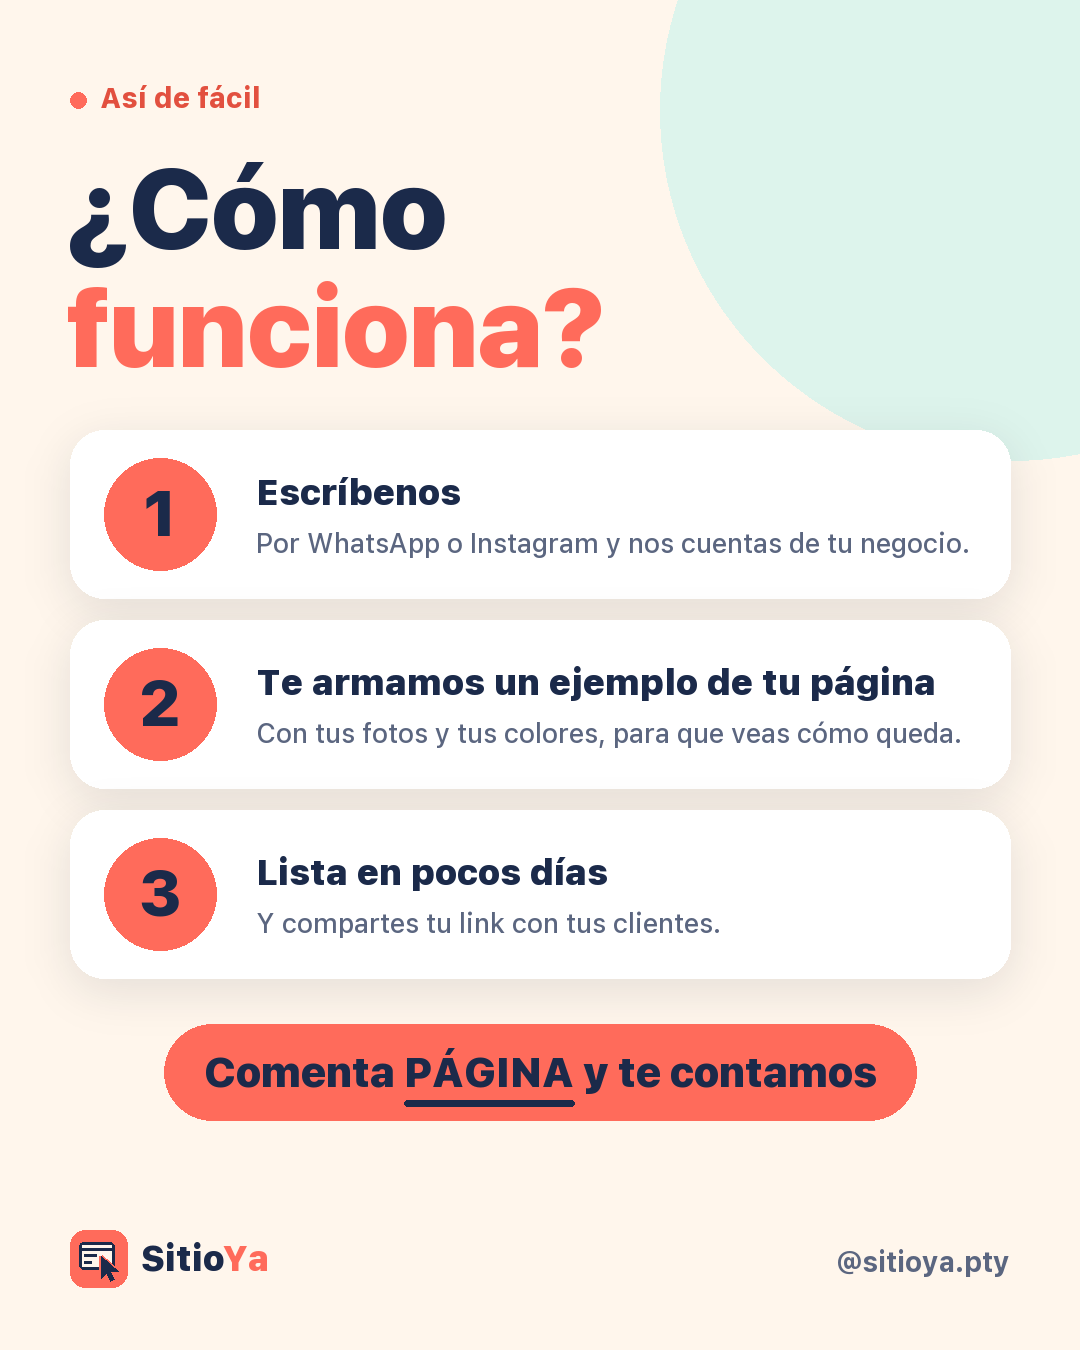
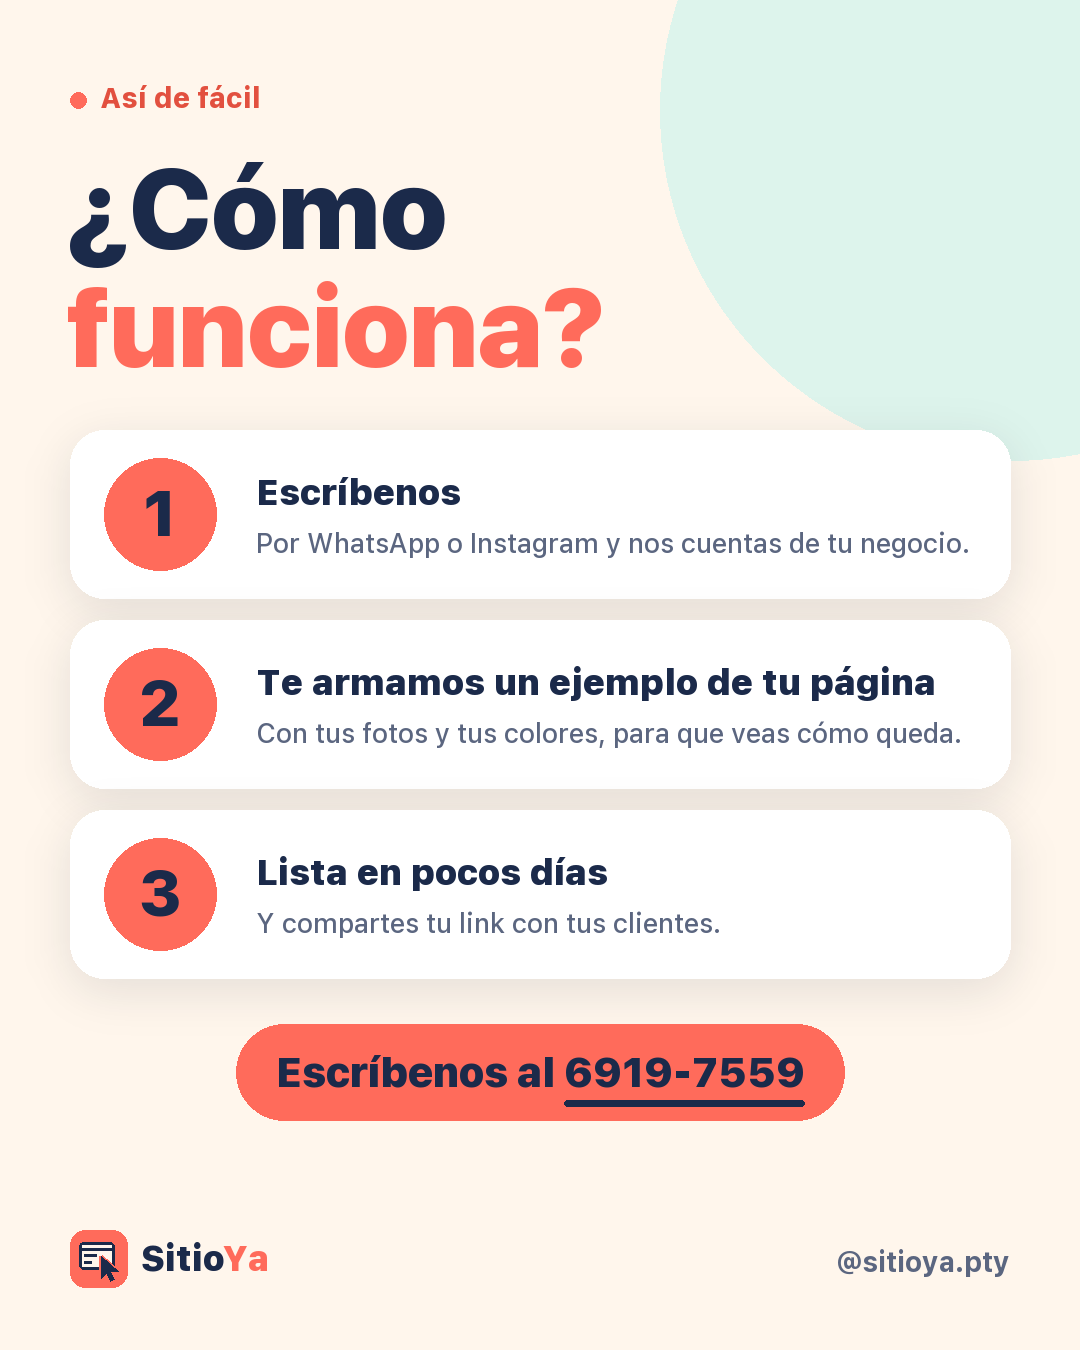
[Claude] WIP: avance del agente en posts de SitioYa (barbería, portada mitos, botones)
Claude-Session: https://claude.ai/code/session_01HjM58LyjDP46JMonKLDErg

Changed region(s): [[0.1528, 0.7467, 0.8556, 0.84]]

diff --git a/redes/posts/index.html b/redes/posts/index.html
@@ -1,6 +1,6 @@
 <!doctype html><html lang="es"><head><meta charset="utf-8"><meta name="viewport" content="width=device-width,initial-scale=1"><meta name="robots" content="noindex"><title>Posts de @sitioya.pty</title><link rel="icon" href="/favicon.svg">
 <style>body{margin:0;font-family:system-ui,-apple-system,sans-serif;background:#FFF6EC;color:#1B2A4A}main{max-width:1100px;margin:0 auto;padding:32px 20px}h1{margin:0 0 6px}.s{color:#5B6680;margin:0 0 28px}.g{display:grid;grid-template-columns:repeat(auto-fill,minmax(min(100%,300px),1fr));gap:24px}figure{margin:0;background:#fff;border-radius:22px;overflow:hidden;box-shadow:0 10px 30px rgba(27,42,74,.08)}img{width:100%;display:block}figcaption{padding:16px 18px 20px}figcaption p{color:#5B6680;margin:8px 0 14px;line-height:1.4}.b{display:inline-block;background:#FF6B5B;color:#1B2A4A;font-weight:800;padding:10px 18px;border-radius:99px;text-decoration:none;margin:0 6px 6px 0}</style></head>
-<body><main><h1>Posts de @sitioya.pty</h1><p class="s">Los 13 en el orden para publicar (del 1 al 13). El último en salir queda arriba en el perfil. El 4 es un carrusel de 4 slides. Al final, la story de la encuesta (1080x1920).</p><div class="g">
+<body><main><h1>Posts de @sitioya.pty</h1><p class="s">Los 12 en el orden para publicar (del 1 al 12). El último en salir queda arriba en el perfil. El 4 es un carrusel de 4 slides. Al final, la story de la encuesta (1080x1920).</p><div class="g">
 <figure><a href="1-tu-negocio-en-internet.png" download><img src="1-tu-negocio-en-internet.png" alt="Tu negocio en internet, ya" loading="lazy"></a><figcaption><b>1. Tu negocio en internet, ya</b><p>Tu negocio en internet, ya. Hacemos páginas web para negocios en Panamá, listas en pocos días. ¿Tu negocio ya tiene página? Sí o no, te leemos en los comentarios</p><a class="b" href="1-tu-negocio-en-internet.png" download>Descargar</a></figcaption></figure>
 <figure><a href="2-como-funciona.png" download><img src="2-como-funciona.png" alt="¿Cómo funciona?" loading="lazy"></a><figcaption><b>2. ¿Cómo funciona?</b><p>¿Cómo funciona? 1. Escríbenos 2. Te armamos un ejemplo de tu página 3. Lista en pocos días y compartes tu link. Escríbenos por WhatsApp al 6919-7559 y empezamos</p><a class="b" href="2-como-funciona.png" download>Descargar</a></figcaption></figure>
 <figure><a href="3-paginas-de-ejemplo.png" download><img src="3-paginas-de-ejemplo.png" alt="4 páginas de ejemplo" loading="lazy"></a><figcaption><b>3. 4 páginas de ejemplo</b><p>4 páginas de ejemplo: panadería, barbería, tienda y repostería. ¿Cuál estilo va con tu negocio? Dinos en los comentarios</p><a class="b" href="3-paginas-de-ejemplo.png" download>Descargar</a></figcaption></figure>
@@ -9,10 +9,9 @@
 <figure><a href="6-antes-y-despues.png" download><img src="6-antes-y-despues.png" alt="Antes y después" loading="lazy"></a><figcaption><b>6. Antes y después</b><p>Antes: te buscan y no te encuentran. Después: tu página con tus precios, tu horario y tu link para compartir. ¿Quieres pasar al después? Escríbenos por WhatsApp al 6919-7559</p><a class="b" href="6-antes-y-despues.png" download>Descargar</a></figcaption></figure>
 <figure><a href="7-vendes-por-instagram.png" download><img src="7-vendes-por-instagram.png" alt="¿Vendes por Instagram?" loading="lazy"></a><figcaption><b>7. ¿Vendes por Instagram?</b><p>¿Vendes solo por Instagram? Con una página tus clientes ven todo en un solo lugar y te piden directo. Compártelo con alguien que venda por mensajes</p><a class="b" href="7-vendes-por-instagram.png" download>Descargar</a></figcaption></figure>
 <figure><a href="8-precios.png" download><img src="8-precios.png" alt="Precios" loading="lazy"></a><figcaption><b>8. Precios</b><p>Precios claros: Básica $99, Completa $199 y Diseño único desde $369. Pagas una sola vez y el mantenimiento de $15/mes es opcional. Comenta PÁGINA y te contamos</p><a class="b" href="8-precios.png" download>Descargar</a></figcaption></figure>
-<figure><a href="9-siguenos.png" download><img src="9-siguenos.png" alt="Síguenos para más" loading="lazy"></a><figcaption><b>9. Síguenos para más</b><p>Síguenos para ver páginas de ejemplo, precios claros y tips para tu negocio. Hacemos páginas web para negocios en Panamá</p><a class="b" href="9-siguenos.png" download>Descargar</a></figcaption></figure>
+<figure><a href="9-siguenos-tu-negocio-merece-pagina.png" download><img src="9-siguenos-tu-negocio-merece-pagina.png" alt="Síguenos: Tu negocio merece una página web" loading="lazy"></a><figcaption><b>9. Síguenos: Tu negocio merece una página web</b><p>Hacemos páginas web para negocios en Panamá. Síguenos para ver más ejemplos y tips para tu negocio</p><a class="b" href="9-siguenos-tu-negocio-merece-pagina.png" download>Descargar</a></figcaption></figure>
 <figure><a href="10-tres-cosas-que-pierde-tu-negocio.png" download><img src="10-tres-cosas-que-pierde-tu-negocio.png" alt="3 cosas que pierde tu negocio sin página" loading="lazy"></a><figcaption><b>10. 3 cosas que pierde tu negocio sin página</b><p>3 cosas que pierde tu negocio sin página: clientes que te buscan, tiempo contestando lo mismo y pedidos cuando estás ocupado. Guárdalo para cuando lo necesites</p><a class="b" href="10-tres-cosas-que-pierde-tu-negocio.png" download>Descargar</a></figcaption></figure>
 <figure><a href="11-pagina-y-no-solo-instagram.png" download><img src="11-pagina-y-no-solo-instagram.png" alt="Por qué página y no solo Instagram" loading="lazy"></a><figcaption><b>11. Por qué página y no solo Instagram</b><p>Instagram para que te conozcan y tu página para que te compren: tus productos ordenados, tus precios y tu horario a la vista y todo siempre en el mismo lugar. ¿Tu negocio ya tiene página o solo redes? Cuéntanos en los comentarios</p><a class="b" href="11-pagina-y-no-solo-instagram.png" download>Descargar</a></figcaption></figure>
 <figure><a href="12-ejemplo-gratis-de-tu-pagina.png" download><img src="12-ejemplo-gratis-de-tu-pagina.png" alt="Te armamos un ejemplo gratis de tu página" loading="lazy"></a><figcaption><b>12. Te armamos un ejemplo gratis de tu página</b><p>Te armamos un ejemplo gratis de tu página para que veas cómo quedaría tu negocio antes de decidir. Comenta PÁGINA y te contamos</p><a class="b" href="12-ejemplo-gratis-de-tu-pagina.png" download>Descargar</a></figcaption></figure>
-<figure><a href="13-siguenos-tu-negocio-merece-pagina.png" download><img src="13-siguenos-tu-negocio-merece-pagina.png" alt="Síguenos: Tu negocio merece una página web" loading="lazy"></a><figcaption><b>13. Síguenos: Tu negocio merece una página web</b><p>Hacemos páginas web para negocios en Panamá. Síguenos para ver más ejemplos y tips para tu negocio</p><a class="b" href="13-siguenos-tu-negocio-merece-pagina.png" download>Descargar</a></figcaption></figure>
 <figure><a href="/redes/ejemplo-heladeria/story-encuesta.png" download><img src="/redes/ejemplo-heladeria/story-encuesta.png" alt="Story: ¿Tu negocio tiene página web?" loading="lazy"></a><figcaption><b>Story: ¿Tu negocio tiene página web?</b><p>En el recuadro de arriba va el sticker de encuesta con la pregunta &quot;¿Tu negocio tiene página web?&quot; y las opciones Sí / No (o, en otra story con el mismo arte, la cajita de preguntas: &quot;Si no tiene, ¿qué te frena? Pregúntanos&quot;). En el recuadro de abajo va el sticker de mención @sitioya.pty.</p><a class="b" href="/redes/ejemplo-heladeria/story-encuesta.png" download>Descargar</a></figcaption></figure>
 </div></main></body></html>

diff --git a/tools/redes_posts.py b/tools/redes_posts.py
@@ -10,7 +10,7 @@ from PIL import Image, ImageDraw
 sys.path.insert(0, os.path.dirname(os.path.abspath(__file__)))
 from redes_heladeria import (  # noqa: E402
     BLANCO, BLUSH, CORAL, CORAL_D, CREMA, MENTA, NAVY, SOFT, RAIZ,
-    base, envolver, foto, fuente, kicker, logo_sitioya, pantalla_portada, parrafo, pastilla,
+    base, boton_cierre, pie, envolver, foto, fuente, kicker, logo_sitioya, pantalla_portada, parrafo, pastilla,
     puntos_fondo, sombra, texto_ancho,
 )
 
@@ -63,23 +63,6 @@ def pie_simple(im, oscuro=False):
     f = fuente(28, 700)
     t = '@sitioya.pty'
     d.text((W - 70 - texto_ancho(d, t, f), H - 106), t, font=f, fill=CREMA if oscuro else SOFT)
-
-
-def boton_pagina(d, cy, fondo=CORAL, color=NAVY, tam=42):
-    """Botón 'Comenta PÁGINA y te contamos' centrado, con PÁGINA subrayada."""
-    f = fuente(tam, 900)
-    t1, t2, t3 = 'Comenta ', 'PÁGINA', ' y te contamos'
-    ancho_total = texto_ancho(d, t1 + t2 + t3, f) + 80
-    x = (1080 - ancho_total) / 2
-    alto = tam + 54
-    d.rounded_rectangle((x, cy, x + ancho_total, cy + alto), alto / 2, fill=fondo)
-    tx = x + 40
-    for parte in (t1, t2, t3):
-        d.text((tx, cy + 22), parte, font=f, fill=color)
-        if parte == t2:
-            d.rounded_rectangle((tx, cy + tam + 34, tx + texto_ancho(d, parte, f), cy + tam + 40), 3, fill=color)
-        tx += texto_ancho(d, parte, f)
-    return cy + alto
 
 
 # ---------- 1. Precios ----------
@@ -199,7 +182,7 @@ def post_como_funciona():
         for linea in ld:
             d.text((256, ty), linea, font=fd, fill=SOFT); ty += 36
         y += alto + 22
-    fin = boton_pagina(d, y + 24)
+    fin = boton_cierre(d, y + 24, [('Escríbenos al ', False), ('6919-7559', True)])
     assert fin < 1200, fin
     pie_simple(im)
     return im
@@ -228,37 +211,6 @@ def post_tu_negocio():
     d = ImageDraw.Draw(im)
     d.text((72, 1156), 'Negocios y datos de ejemplo', font=fuente(24, 500), fill=SOFT)
     pie_simple(im)
-    return im
-
-
-# ---------- 5. Síguenos para más ----------
-
-def post_siguenos():
-    im = base(1080, 1350, NAVY)
-    puntos_fondo(im, (36, 54, 90, 255), paso=80, r=5)
-    d = ImageDraw.Draw(im)
-    tam = 110
-    fl = fuente(int(tam * 0.62), 900)
-    ancho_logo = tam + tam * 0.22 + texto_ancho(d, 'SitioYa', fl)
-    logo_sitioya(im, ((1080 - ancho_logo) / 2, 150), tam, oscuro=True)
-    d = ImageDraw.Draw(im)
-    f = fuente(150, 900)
-    y = 340
-    for linea, c in (('Síguenos', CREMA), ('para más', CORAL)):
-        d.text(((1080 - texto_ancho(d, linea, f)) / 2, y), linea, font=f, fill=c); y += 160
-    y += 40
-    fi = fuente(40, 700)
-    items = ('Páginas de ejemplo', 'Precios claros', 'Tips para tu negocio')
-    ancho_lista = max(texto_ancho(d, t, fi) for t in items) + 50
-    x = (1080 - ancho_lista) / 2
-    for t in items:
-        d.rounded_rectangle((x, y + 14, x + 24, y + 38), 7, fill=MENTA)
-        d.text((x + 50, y), t, font=fi, fill=CREMA)
-        y += 74
-    y += 40
-    pastilla(d, (540, y), '@sitioya.pty', fuente(56, 900), CORAL, NAVY, pad=(48, 24), centro=True)
-    parrafo(d, (540, 1200), 'Hacemos páginas web para negocios en Panamá', fuente(30, 500), '#C9D1E3', 900, 1.3,
-            centrado=True)
     return im
 
 
@@ -298,7 +250,7 @@ def post_tres_cosas():
         for linea in ld:
             d.text((248, ty), linea, font=fd, fill=SOFT); ty += 36
         y += alto + 22
-    fin = boton_pagina(d, y + 18)
+    fin = boton_cierre(d, y + 18, [('Guárdalo', True), (' para cuando armes la tuya', False)])
     assert fin < 1200, fin
     pie_simple(im)
     return im
@@ -546,7 +498,7 @@ def post_pierde_sin_pagina():
         for linea in ld:
             d.text((248, ty), linea, font=fd, fill=SOFT); ty += 36
         y += alto + 20
-    fin = boton_pagina(d, y + 16)
+    fin = boton_cierre(d, y + 16, [('Guárdalo', True), (' para cuando lo necesites', False)])
     assert fin < 1200, fin
     pie_simple(im)
     return im
@@ -646,7 +598,7 @@ def post_ejemplo_gratis():
     return im
 
 
-# ---------- 13. Síguenos: Tu negocio merece una página web ----------
+# ---------- 9. Síguenos: Tu negocio merece una página web ----------
 # Celulares con dos páginas de ejemplo: la Heladería del carrusel "Ejemplo de la
 # semana" (Nieve & Co) y el menú de Mesa Lunar (plantillas/menu.html).
 
@@ -686,6 +638,48 @@ def post_merece_pagina():
     return im
 
 
+# ---------- Carrusel "3 mitos de tener página web": portada (slide 1 de 4) ----------
+# Va en su propia carpeta (redes/mitos-pagina-web/). Los slides 2-4 los arma Cam.
+MITOS = os.path.join(RAIZ, 'redes', 'mitos-pagina-web')
+
+
+def tarjeta_mito(n, ancho=300, alto=190):
+    """Tarjeta blanca con 'MITO n' y una ✕, para girarla y apilarla."""
+    t = Image.new('RGBA', (ancho, alto), (0, 0, 0, 0))
+    g = ImageDraw.Draw(t)
+    g.rounded_rectangle((0, 0, ancho - 1, alto - 1), 30, fill=BLANCO)
+    pastilla(g, (30, 30), f'MITO {n}', fuente(28, 900), BLUSH, CORAL_D, pad=(20, 10))
+    for i, w in enumerate((0.78, 0.56)):
+        g.rounded_rectangle((30, 112 + i * 34, 30 + (ancho - 60) * w, 128 + i * 34), 8, fill=GRIS)
+    cx, cy, r = ancho - 56, 52, 26
+    g.ellipse((cx - r, cy - r, cx + r, cy + r), fill=CORAL)
+    g.line((cx - 10, cy - 10, cx + 10, cy + 10), fill=BLANCO, width=6)
+    g.line((cx - 10, cy + 10, cx + 10, cy - 10), fill=BLANCO, width=6)
+    return t
+
+
+def mitos_portada():
+    im = base(1080, 1350)
+    d = ImageDraw.Draw(im)
+    d.ellipse((560, 520, 1300, 1260), fill=BLUSH)
+    d.ellipse((-200, 1040, 220, 1460), fill=MENTA_CLARO)
+    pastilla(d, (70, 80), 'LO QUE NADIE TE DICE', fuente(30, 900), CORAL, NAVY, pad=(30, 16))
+    d.text((66, 160), '3 mitos', font=fuente(170, 900), fill=NAVY)
+    f = fuente(104, 900)
+    for i, linea in enumerate(('de tener', 'página web')):
+        assert 66 + texto_ancho(d, linea, f) < 1030, linea
+        d.text((66, 352 + i * 112), linea, font=f, fill=CORAL)
+    parrafo(d, (72, 610), 'Y lo que pasa de verdad con tu negocio.', fuente(38, 600), SOFT, 470, 1.3)
+    d.text((72, 800), 'Desliza →', font=fuente(36, 800), fill=CORAL_D)
+    # tres tarjetas apiladas a la derecha, un poco giradas
+    for n, (x, y, giro) in enumerate(((600, 600, 6), (640, 790, -4), (590, 980, 3)), 1):
+        t = tarjeta_mito(n).rotate(giro, resample=Image.BICUBIC, expand=True)
+        sombra(im, (x + 14, y + 14, x + t.width - 14, y + t.height - 10), 30, desp=(0, 16), difuso=22, alfa=40)
+        im.alpha_composite(t, (x, y))
+    pie(im, 1)
+    return im
+
+
 # Orden sugerido de publicación (el último en salir queda arriba en el perfil).
 # El 4 es el carrusel de la Heladería, que sale de tools/redes_heladeria.py.
 HELADERIA = 'heladeria'
@@ -714,9 +708,10 @@ FEED = [
     ('8-precios.png', post_precios, 'Precios',
      'Precios claros: Básica $99, Completa $199 y Diseño único desde $369. Pagas una sola vez y el '
      'mantenimiento de $15/mes es opcional. Comenta PÁGINA y te contamos'),
-    ('9-siguenos.png', post_siguenos, 'Síguenos para más',
-     'Síguenos para ver páginas de ejemplo, precios claros y tips para tu negocio. Hacemos páginas web para '
-     'negocios en Panamá'),
+    # el 9 es el Síguenos nuevo (Tu negocio merece una página web); reemplazó al Síguenos viejo
+    ('9-siguenos-tu-negocio-merece-pagina.png', post_merece_pagina, 'Síguenos: Tu negocio merece una página web',
+     'Hacemos páginas web para negocios en Panamá. Síguenos para ver más ejemplos y tips para tu '
+     'negocio'),
     # extra (se publican después del 9, así el 12 queda arriba en el perfil)
     ('10-tres-cosas-que-pierde-tu-negocio.png', post_pierde_sin_pagina, '3 cosas que pierde tu negocio sin página',
      '3 cosas que pierde tu negocio sin página: clientes que te buscan, tiempo contestando lo mismo y pedidos '
@@ -728,9 +723,6 @@ FEED = [
     ('12-ejemplo-gratis-de-tu-pagina.png', post_ejemplo_gratis, 'Te armamos un ejemplo gratis de tu página',
      'Te armamos un ejemplo gratis de tu página para que veas cómo quedaría tu negocio antes de decidir. '
      'Comenta PÁGINA y te contamos'),
-    ('13-siguenos-tu-negocio-merece-pagina.png', post_merece_pagina, 'Síguenos: Tu negocio merece una página web',
-     'Hacemos páginas web para negocios en Panamá. Síguenos para ver más ejemplos y tips para tu '
-     'negocio'),
 ]
 STORY = ('/redes/ejemplo-heladeria/story-encuesta.png', 'Story: ¿Tu negocio tiene página web?',
          'En el recuadro de arriba va el sticker de encuesta con la pregunta "¿Tu negocio tiene página web?" y '
@@ -789,6 +781,11 @@ def main():
         print(nombre, im.size)
     galeria()
     print('index.html')
+    os.makedirs(MITOS, exist_ok=True)
+    im = mitos_portada()
+    assert im.size == (1080, 1350), im.size
+    im.convert('RGB').save(os.path.join(MITOS, 'mitos-1-portada.png'), optimize=True)
+    print('mitos-1-portada.png', im.size)
 
 
 if __name__ == '__main__':

diff --git a/tools/redes_heladeria.py b/tools/redes_heladeria.py
@@ -340,6 +340,23 @@ def pie(im, n, total=4, oscuro=False):
         d.ellipse((x + i * 26, H - 98, x + i * 26 + 14, H - 84), fill=c)
 
 
+def boton_cierre(d, cy, partes, fondo=CORAL, color=NAVY, tam=42):
+    """Botón de cierre centrado (1080 de ancho). partes = [(texto, subrayado), ...]."""
+    f = fuente(tam, 900)
+    ancho_total = sum(texto_ancho(d, t, f) for t, _ in partes) + 80
+    assert ancho_total < 1000, ancho_total
+    x = (1080 - ancho_total) / 2
+    alto = tam + 54
+    d.rounded_rectangle((x, cy, x + ancho_total, cy + alto), alto / 2, fill=fondo)
+    tx = x + 40
+    for t, subrayado in partes:
+        d.text((tx, cy + 22), t, font=f, fill=color)
+        if subrayado:
+            d.rounded_rectangle((tx, cy + tam + 34, tx + texto_ancho(d, t, f), cy + tam + 40), 3, fill=color)
+        tx += texto_ancho(d, t, f)
+    return cy + alto
+
+
 def kicker(d, xy, s, oscuro=False):
     f = fuente(28, 800)
     x, y = xy
@@ -418,18 +435,7 @@ def slide4():
         d.text(((1080 - texto_ancho(d, t, f)) / 2, y), t, font=f, fill=c); y += 92
     y += 30
     parrafo(d, (540, y), 'Con tus fotos, tus productos y tu estilo.', fuente(34, 500), '#C9D1E3', 820, 1.3, centrado=True)
-    f = fuente(42, 900)
-    t1, t2, t3 = 'Comenta ', 'PÁGINA', ' y te contamos'
-    ancho_total = texto_ancho(d, t1 + t2 + t3, f) + 80
-    x = (1080 - ancho_total) / 2
-    by = y + 90
-    d.rounded_rectangle((x, by, x + ancho_total, by + 96), 48, fill=CORAL)
-    tx = x + 40
-    for parte in (t1, t2, t3):
-        d.text((tx, by + 22), parte, font=f, fill=NAVY)
-        if parte == t2:  # subrayado para resaltar la palabra que hay que comentar
-            d.rounded_rectangle((tx, by + 76, tx + texto_ancho(d, parte, f), by + 82), 3, fill=NAVY)
-        tx += texto_ancho(d, parte, f)
+    boton_cierre(d, y + 90, [('Escríbenos al ', False), ('6919-7559', True)])
     pie(im, 4, oscuro=True)
     return im
 
